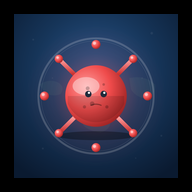
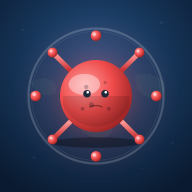
Add files via upload

diff --git a/sw.js b/sw.js
@@ -1,0 +1,45 @@
+/* Service Worker for WHO Failed PWA */
+const CACHE_NAME = 'who-failed-v1';
+const CORE_ASSETS = [
+  './',
+  './index.html',
+  './manifest.json',
+  './icon-192.png',
+  './icon-512.png',
+  './icon-maskable-512.png'
+];
+
+self.addEventListener('install', (event) => {
+  event.waitUntil(
+    caches.open(CACHE_NAME).then((cache) => cache.addAll(CORE_ASSETS))
+      .catch(() => {})
+  );
+  self.skipWaiting();
+});
+
+self.addEventListener('activate', (event) => {
+  event.waitUntil(
+    caches.keys().then((keys) =>
+      Promise.all(keys.filter(k => k !== CACHE_NAME).map(k => caches.delete(k)))
+    )
+  );
+  self.clients.claim();
+});
+
+self.addEventListener('fetch', (event) => {
+  // Only handle GET requests
+  if (event.request.method !== 'GET') return;
+  event.respondWith(
+    caches.match(event.request).then((cached) => {
+      if (cached) return cached;
+      return fetch(event.request).then((response) => {
+        // Cache successful same-origin responses
+        if (response.ok && new URL(event.request.url).origin === location.origin) {
+          const clone = response.clone();
+          caches.open(CACHE_NAME).then((cache) => cache.put(event.request, clone));
+        }
+        return response;
+      }).catch(() => caches.match('./index.html'));
+    })
+  );
+});

diff --git a/index.html b/index.html
@@ -6,8 +6,16 @@
 <meta name="apple-mobile-web-app-capable" content="yes" />
 <meta name="mobile-web-app-capable" content="yes" />
 <meta name="apple-mobile-web-app-status-bar-style" content="black-translucent" />
-<meta name="theme-color" content="#0e2238" />
+<meta name="theme-color" content="#163559" />
 <link rel="manifest" href="manifest.json" />
+<link rel="apple-touch-icon" href="icon-192.png" />
+<script>
+  if('serviceWorker' in navigator){
+    window.addEventListener('load', () => {
+      navigator.serviceWorker.register('./sw.js').catch(() => {});
+    });
+  }
+</script>
 <title>WHO FAILED — Prototype</title>
 <link rel="preconnect" href="https://fonts.googleapis.com">
 <link rel="preconnect" href="https://fonts.gstatic.com" crossorigin>

diff --git a/README.md b/README.md
@@ -1,1 +1,109 @@
-# andreyfilat.github.io
+# WHO Failed — PWA / APK сборка
+
+## Что внутри пакета
+
+- `index.html` — игра (с регистрацией Service Worker)
+- `manifest.json` — production-ready PWA manifest
+- `sw.js` — Service Worker (требуется PWABuilder для Play Store)
+- `icon-192.png`, `icon-512.png` — обычные иконки
+- `icon-maskable-192.png`, `icon-maskable-512.png` — adaptive icons для Android (safe-zone в 80%)
+
+## Шаг 1. Опубликуйте на HTTPS-хостинге
+
+PWABuilder работает только с HTTPS URL.
+
+**Vercel** (рекомендую — 1 минута):
+```bash
+npm i -g vercel
+cd /path/to/who-failed-pwa
+vercel
+```
+Получите URL вида `https://who-failed-xxx.vercel.app`.
+
+**Netlify Drop** (без CLI): зайдите на https://app.netlify.com/drop и просто перетащите папку — получите HTTPS-ссылку.
+
+**GitHub Pages**: создайте репозиторий, загрузите файлы, включите Pages в Settings.
+
+## Шаг 2. Проверьте PWA
+
+Откройте опубликованную ссылку → DevTools (F12) → Lighthouse → запустите аудит "Progressive Web App". Должен показать ≥90 баллов.
+
+Если есть ошибки про SW или manifest — сначала исправьте их, потом возвращайтесь в PWABuilder.
+
+## Шаг 3. PWABuilder
+
+1. https://pwabuilder.com → введите URL
+2. Должны увидеть score ≥80 по Manifest и Service Worker
+3. **Package For Stores → Android**
+4. В диалоге заполните:
+   - **Package ID:** `com.whofailed.game` (или другой уникальный — но запомните, его не сменить!)
+   - **App name:** WHO Failed
+   - **Launcher name:** WHO Failed
+   - **App version:** 1.0.0
+   - **Display mode:** Standalone
+   - **Orientation:** Portrait
+   - **Signing key:** "I'll provide my own" → или дайте PWABuilder сгенерировать новый (скачайте `signing.keystore` и сохраните пароль!)
+5. Скачайте `.zip` с APK / AAB
+
+## Если 500 повторяется
+
+### Решение А — изменить Package ID
+
+PWABuilder может выдавать 500 если кто-то уже собирал APK с этим Package ID. Попробуйте:
+- `com.whofailed.game.v2`
+- `com.yourname.whofailed`
+- `app.whofailed`
+
+### Решение B — обойти PWABuilder через bubblewrap (Google's official tool)
+
+```bash
+# Установить
+npm i -g @bubblewrap/cli
+
+# Инициализировать (вопросы — отвечайте по подсказкам)
+bubblewrap init --manifest https://your-url.vercel.app/manifest.json
+
+# Собрать APK
+bubblewrap build
+```
+
+Это **тот же движок что использует PWABuilder под капотом** (TWA — Trusted Web Activity), но локально и без серверных 500 ошибок. Понадобится Java JDK 17+ и Android SDK.
+
+### Решение C — Capacitor вместо TWA
+
+TWA от Google требует постоянный HTTPS-доступ к вашему URL — приложение не работает оффлайн без сети для асет-валидации.
+
+**Capacitor** упаковывает HTML внутрь APK как локальные файлы — игра работает оффлайн.
+
+```bash
+# В вашей папке who-failed-pwa
+npm init -y
+npm i -D @capacitor/cli @capacitor/core @capacitor/android
+npx cap init "WHO Failed" "com.whofailed.game" --web-dir="."
+npx cap add android
+npx cap sync
+npx cap open android
+```
+
+Откроется Android Studio → Build → Generate Signed Bundle/APK.
+
+## Решение D — обратиться в поддержку PWABuilder
+
+500 на их сервере — это их баг. Откройте issue:
+https://github.com/pwa-builder/PWABuilder/issues
+
+Приложите URL который пытались собрать и Package ID. Обычно отвечают за 1-2 дня.
+
+## Что важно для Google Play
+
+Независимо от инструмента сборки, для Play Store нужно:
+
+- **Подписанный AAB** (не APK) — Google Play требует Android App Bundle с 2021 года
+- **Keystore сохранён надёжно** — без него вы не сможете выпускать обновления (Google отказывается принимать ребилд с другим ключом)
+- **Target SDK** — последний (на 2024-2025 это API 34 = Android 14)
+- **Privacy Policy URL** — обязателен для всех приложений в Play
+- **Скриншоты:** минимум 2 штуки, 1080×1920 или больше (можете сделать iPhone-Simulator или Android Emulator screenshot)
+- **Feature graphic:** 1024×500 для store listing
+- **Иконка 512×512** — уже есть
+- **Content rating** — пройдите опросник в Play Console (вероятно Teen 12+ из-за пандемии)
+- **Account fee:** $25 одноразово